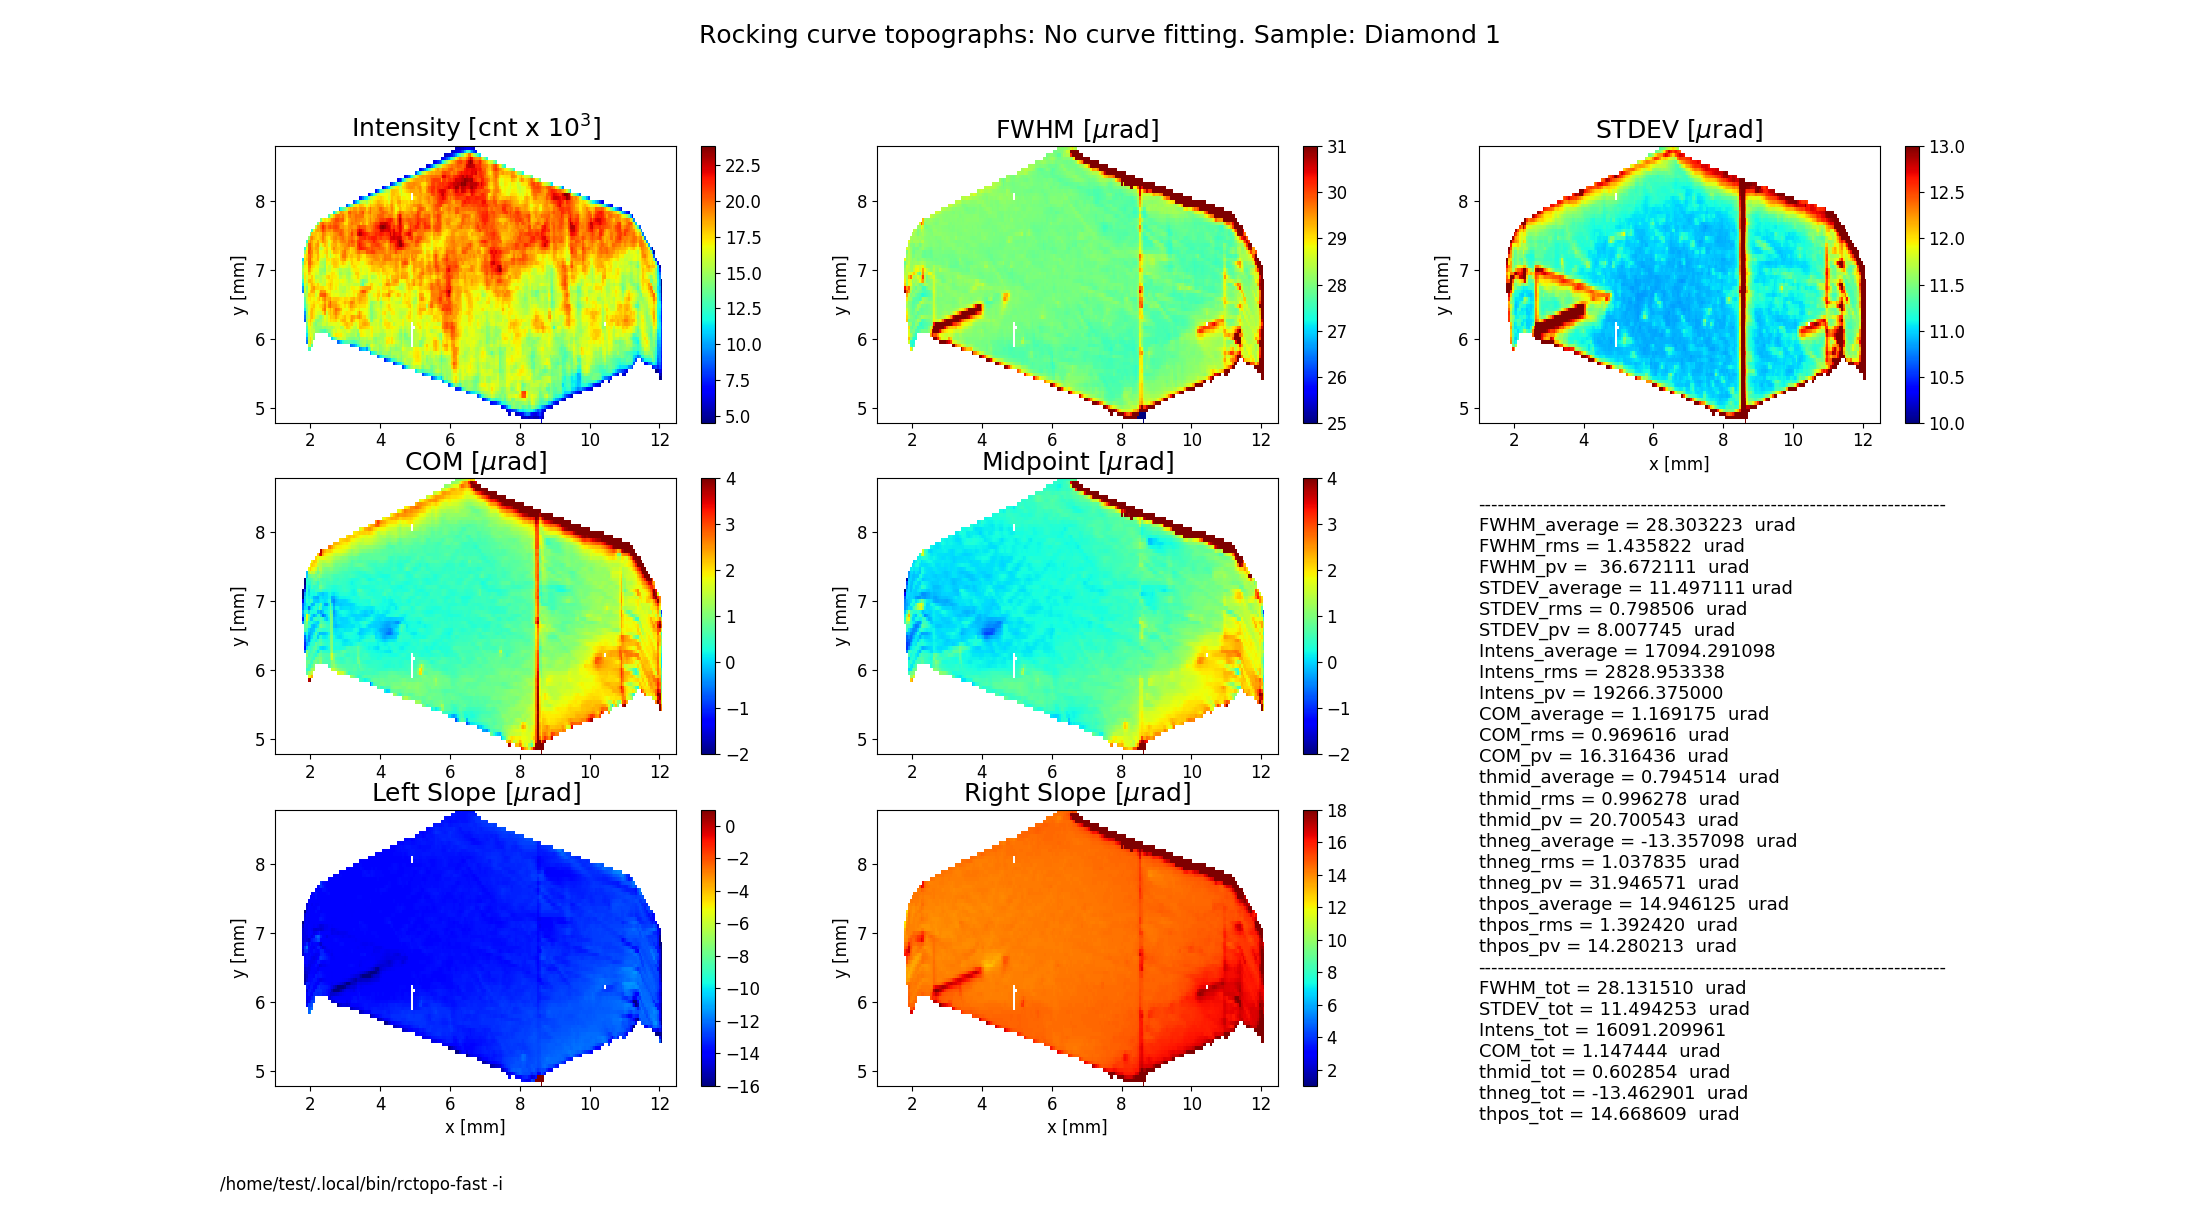
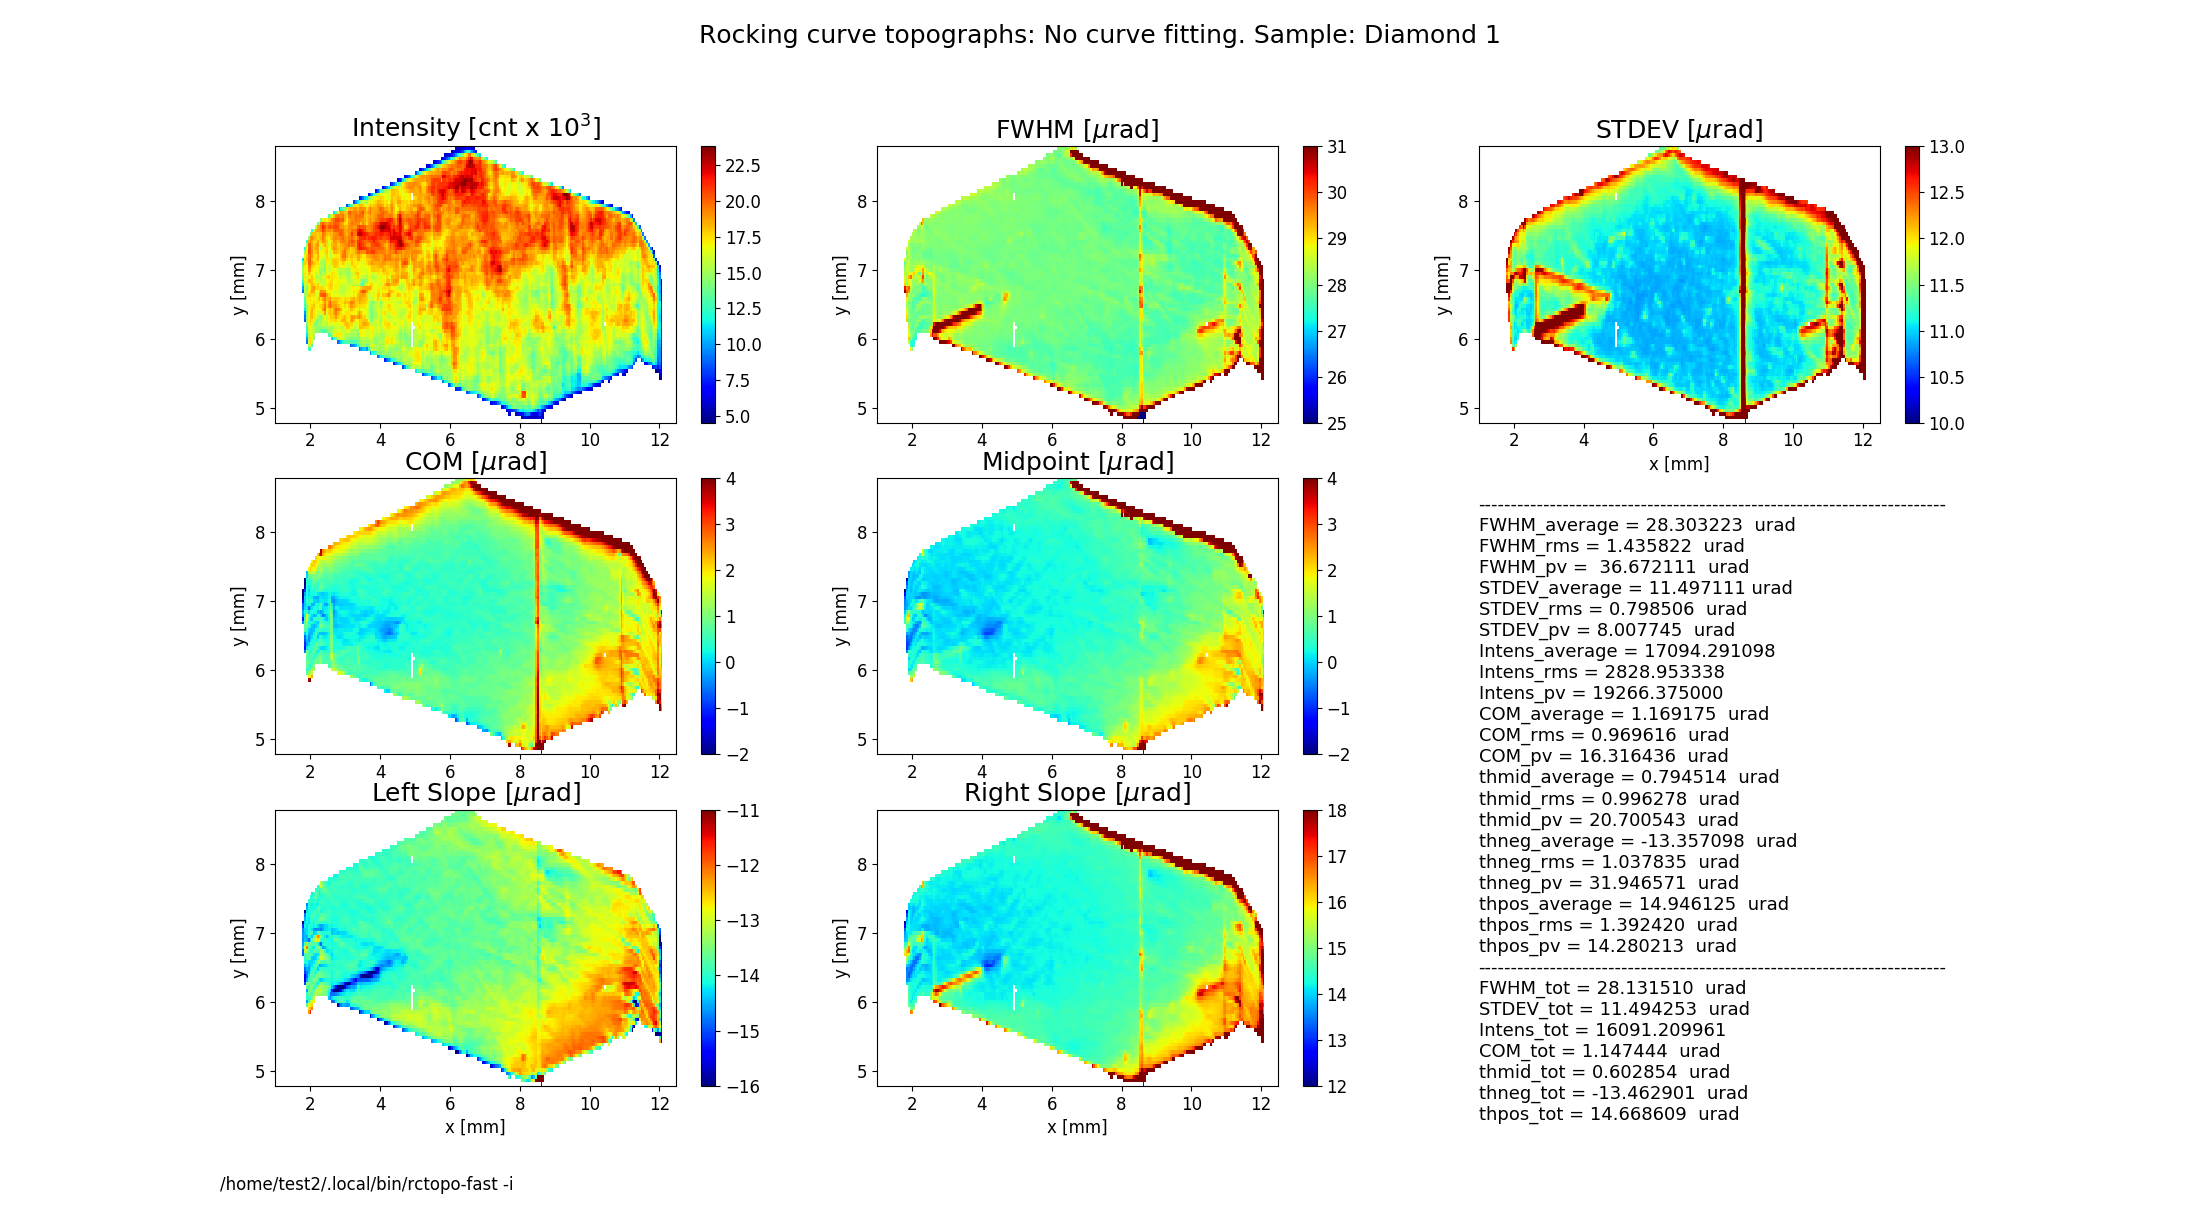
minor updates to README,setup.py and tutorial figures

diff --git a/setup.py b/setup.py
@@ -17,7 +17,7 @@ install_requires = [
    'scipy>=0.18.1',
    'matplotlib>=0.99.1.1',
    'h5py>=2.0.1',
-   'pil>=4.0.0',
+   'pillow>=4.0.0',
 ]
 
 setup(
